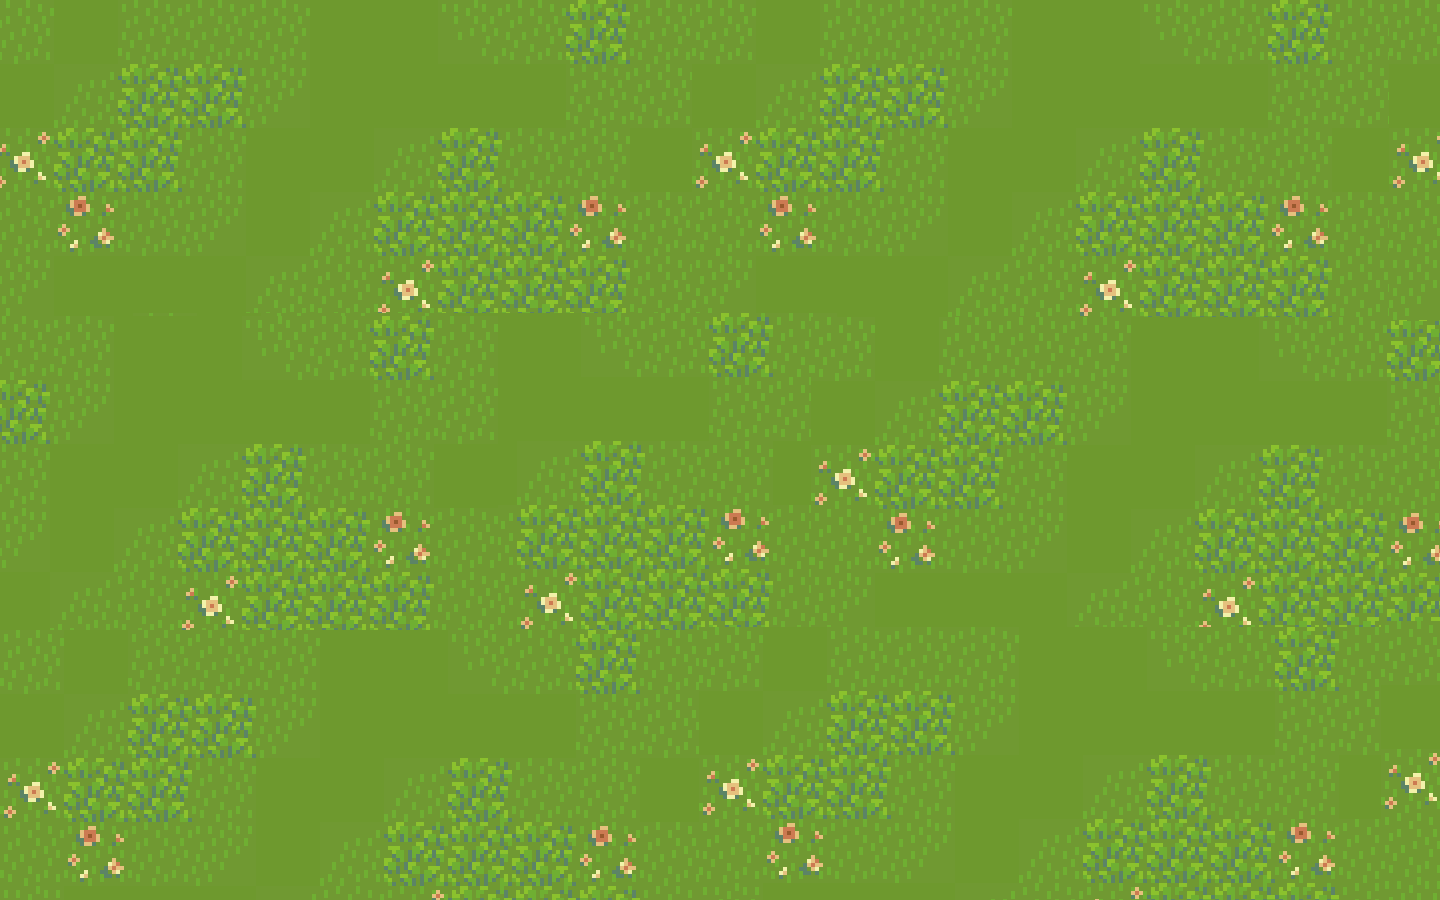
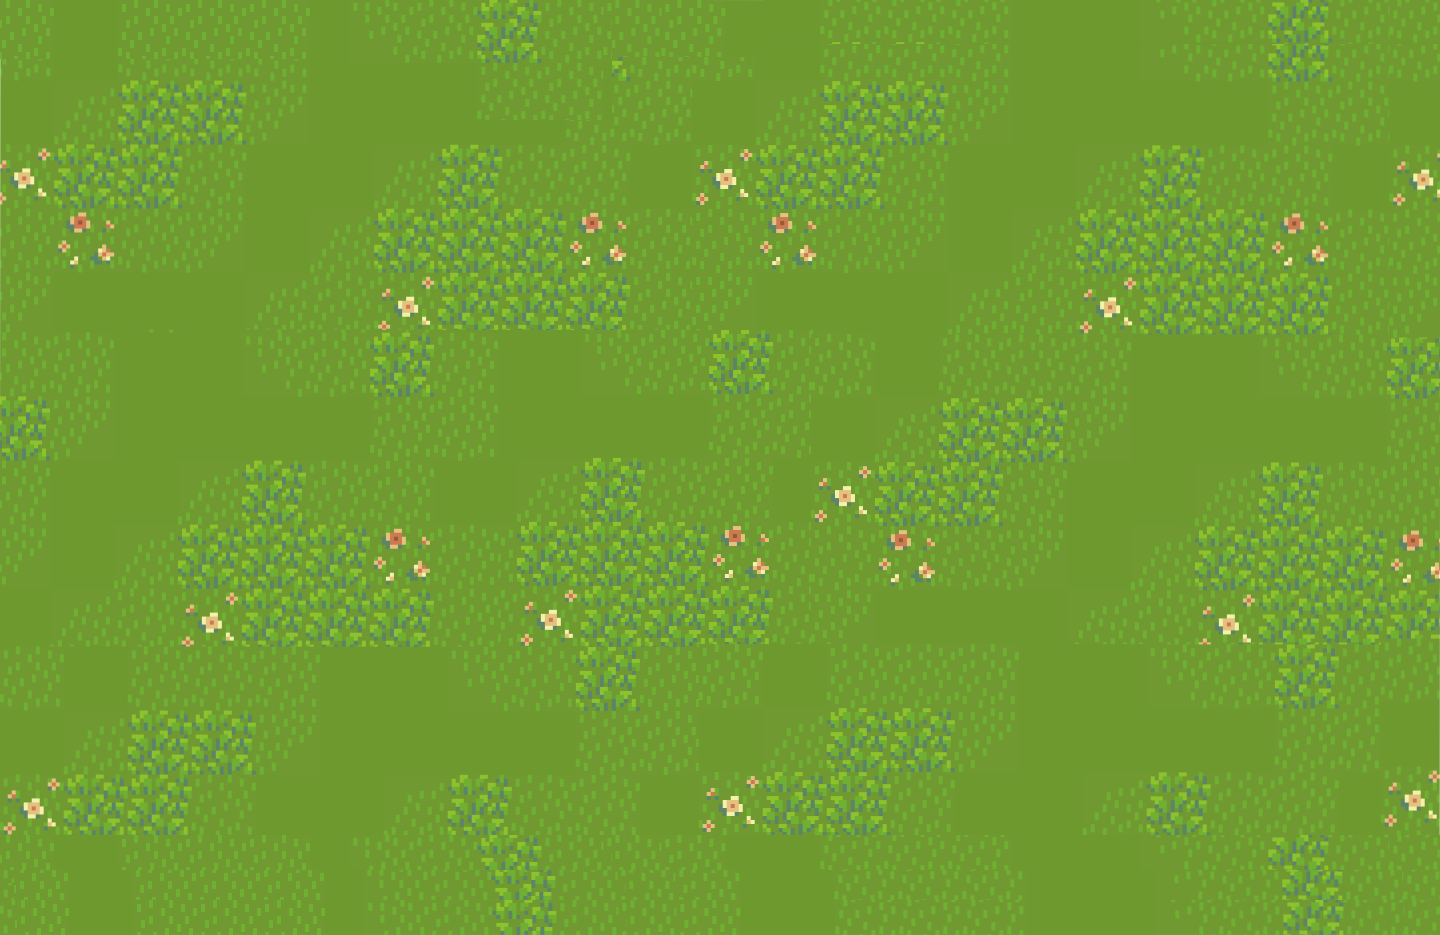
started road runner minigame, fixed tick issues

diff --git a/game/classes/states/roadRunnerState.py b/game/classes/states/roadRunnerState.py
@@ -3,28 +3,82 @@ from classes.spriteLoader import SpriteLoader
 from classes.states.pauseState import Pause
 from classes.buttonClass import Button
 import pygame
+import math
 import os
 
 class RoadRunner(State):
     def __init__(self, main) -> None:
         State.__init__(self, main)
-        self.exitButton = Button(538, 700, self.main.exitImage, 2.5, self.main.exitHoverImage)
+        self.exitButton = Button(538, 660, self.main.exitImage, 2.5, self.main.exitHoverImage)
+
+        self.startTicks = pygame.time.get_ticks()
+        self.currentTickDifference = 0
+
+        self.scrollSpeed = 5
+        self.groundScroll = 0
+        self.timer = 5
+        self.alive = True
+        self.result = False
+        self.goldAdded = False
+        self.moving = True
+
+        self.runner = Runner(720, 700)
 
     def update(self, dt, inputs) -> None:
         pygame.display.update()
 
-    def render(self, screen, inputs) -> None:
-        screen.fill((0,0,0))
-        screen.blit(self.backgroundImage, (0,0))
+        if self.alive:
+            if self.moving:
+                self.runner.update(dt, inputs, self.main.FPS)
 
+                #timer
+                if self.main.game.getPause() == True:
+                    self.startTicks = pygame.time.get_ticks() - self.currentTickDifference
+                    self.main.game.changePause()
+                    
+                seconds = (pygame.time.get_ticks() - self.startTicks)/1000
+                if math.floor(seconds) >= 1:
+                    self.startTicks = pygame.time.get_ticks()
+                    if self.timer > 0:
+                        self.timer -= 1
+                    else:
+                        self.alive = False
+                        self.result = True
+
+                #generates obstacles
+                
+
+
+                #scrolls the ground
+                self.groundScroll -= self.scrollSpeed * self.main.FPS * dt
+                if abs(self.groundScroll) > 35:
+                    self.groundScroll = 0     
+
+        else:
+            if self.result:
+                if self.goldAdded == False:
+                    self.main.minigameValue = self.main.game.changeGold(self.main.minigameValue, False)
+                    self.goldAdded = True
+
+            
+
+    def render(self, screen, inputs) -> None:
         if inputs['escape'] == True:
             nextState = Pause(self.main)
+            self.currentTickDifference = pygame.time.get_ticks() - self.startTicks
             nextState.newState()
 
-        if self.exitButton.draw(screen, inputs) == 1:
-            self.leaveState()
+        if self.alive:
+            screen.fill((0,0,0))
+            screen.blit(self.backgroundImage, (0,self.groundScroll))
 
-         
+            self.runner.render(screen)
+
+            self.main.drawText(str(self.timer), 10, 10, screen, 60)
+                    
+        else:
+            if self.exitButton.draw(screen, inputs) == 1:
+                self.leaveState()
 
     #loads assets required for minigame
     def loadImages(self) -> None:
@@ -32,9 +86,55 @@ class RoadRunner(State):
         self.backgroundImage = pygame.image.load(os.getcwd() + '/assets/road runner minigame/road runner background.png')
         self.obstacleImage = pygame.image.load(os.getcwd() + '/assets/road runner minigame/obstacle.png')
 
-        #loads character sprite sheets
-        self.roadRunnerSpriteSheet = pygame.image.load(os.getcwd() + '/assets/characters/road runner.png')
+class Runner():
+    def __init__(self, x, y):
+        self.loadSprites()
+        self.currentFrameNum = 1
 
-        #loads character sprites
-        roadRunnerSpritesObject = SpriteLoader((os.getcwd() + '/assets/characters/road runner meta.json'), self.roadRunnerSpriteSheet)
+        self.x, self.y = x, y
+
+        self.lastUpdate = 0
+
+        self.currentFrame = self.roadRunnerFrames[0]
+
+
+
+    def update(self, dt, inputs, fps):
+        self.animate(dt)
+        self.rect = self.currentFrame.get_rect()
+        self.rect.center = (self.x, self.y)
+
+    def render(self, screen):
+        screen.blit(self.currentFrame, (self.rect.x, self.rect.y))
+
+    def animate(self, dt):
+        self.lastUpdate += dt
+
+        if self.lastUpdate > 0.05:
+            self.lastUpdate = 0
+            self.currentFrameNum += 1
+            self.currentFrame = self.roadRunnerFrames[(self.currentFrameNum % 3)]
+
+
+
+
+    def loadSprites(self):
+        roadRunnerSpriteSheet = pygame.image.load(os.getcwd() + '/assets/characters/road runner.png')
+        roadRunnerSpritesObject = SpriteLoader((os.getcwd() + '/assets/characters/road runner meta.json'), roadRunnerSpriteSheet)
         self.roadRunnerSprites = roadRunnerSpritesObject.getSprites()
+
+        self.roadRunnerFrames = []
+        for i in self.roadRunnerSprites:
+            self.roadRunnerFrames.append(self.roadRunnerSprites[i])
+
+class Obstacle(pygame.sprite.Sprite):
+    def __init__(self, x, y, image):
+        pygame.sprite.Sprite.__init__(self)
+        self.image = image
+        self.rect = self.image.get_rect()
+        self.rect.topleft = (x,y)
+    
+    def update(self, dt, fps, scrollSpeed):
+        self.rect.y += scrollSpeed * dt * fps
+        if self.rect.y > 900:
+            self.kill()

diff --git a/game/classes/states/tweetyPieState.py b/game/classes/states/tweetyPieState.py
@@ -13,13 +13,16 @@ class TweetyPie(State):
 
         #set game variables
         self.passPipe = False
-        self.scrollSpeed = 4
+        self.scrollSpeed = 7
         self.alive = True
         self.groundScroll = 0
-        self.pipeFreq = 3000
+        self.pipeFreq = 2000
         self.lastPipe = pygame.time.get_ticks() - self.pipeFreq
         self.score = 0
         self.counter = 0
+        self.result = False
+        self.goldAdded = False
+        self.currentTickDifference = 0
 
         self.tweety = Tweety(200, ((self.main.HEIGHT / 2) - 100 ))
         self.pipeGroup = pygame.sprite.Group()
@@ -29,16 +32,17 @@ class TweetyPie(State):
 
         if self.score >= 5:
             self.alive = False
+            self.result = True
 
         if self.tweety.update(dt, inputs, self.main.FPS) == 1:
             self.alive = False
 
-        if self.alive:
+        if self.alive and self.main.game.getPause() == False:
             if self.tweety.getFlying():
-                #generates pipes
                 timeNow = pygame.time.get_ticks()
                 self.pipeGroup.update(dt, self.main.FPS, self.scrollSpeed)
 
+                #checks for passing the pipes
                 if len(self.pipeGroup) > 0:
                     if self.tweety.rect.left > self.pipeGroup.sprites()[0].rect.left\
                         and self.tweety.rect.right < self.pipeGroup.sprites()[0].rect.right\
@@ -50,9 +54,11 @@ class TweetyPie(State):
                             self.score += 1
                             self.passPipe = False
 
+                #checks for collisions
                 if pygame.sprite.spritecollideany(self.tweety, self.pipeGroup):
                     self.alive = False
 
+                #generates pipes
                 if timeNow - self.lastPipe > self.pipeFreq and self.counter < 5:
                     height = random.randint(-100,100)
 
@@ -68,16 +74,31 @@ class TweetyPie(State):
                 if abs(self.groundScroll) > 35:
                     self.groundScroll = 0
 
+        #handles ticks when game ispaused
+        elif self.main.game.getPause():
+                self.lastPipe = pygame.time.get_ticks() - self.currentTickDifference
+                self.main.game.changePause()
+
+        else:
+            if self.result:
+                if self.goldAdded == False:
+                    self.main.minigameValue = self.main.game.changeGold(self.main.minigameValue, False)
+                    self.goldAdded = True
+
+
     def render(self, screen, inputs) -> None:
         screen.fill((0,0,0))
         screen.blit(self.backgroundImage, (0,0))
+
         self.tweety.render(screen)
         self.pipeGroup.draw(screen)
+        
         screen.blit(self.groundImage, (self.groundScroll,800))
-        self.drawText(str(self.score), 10, 10, screen)
+        self.main.drawText(str(self.score), 10, 10, screen, 60)
 
         if inputs['escape'] == True:
             nextState = Pause(self.main)
+            self.currentTickDifference = pygame.time.get_ticks() - self.lastPipe
             nextState.newState()
 
         #draws button if game is over
@@ -89,10 +110,6 @@ class TweetyPie(State):
         self.backgroundImage = pygame.image.load(os.getcwd() + '/assets/tweety pie minigame/tweety pie background.png')
         self.groundImage = pygame.image.load(os.getcwd() + '/assets/tweety pie minigame/ground.png')
         self.pipeImage = pygame.image.load(os.getcwd() + '/assets/tweety pie minigame/pipe.png')
-
-    def drawText(self, text, x, y, screen):
-        image = pygame.font.Font(os.getcwd() + '/assets/misc/font.ttf', 60).render(text, True, (255, 215, 0))
-        screen.blit(image, (x,y))
 
 class Tweety():
     def __init__(self, x, y):
@@ -139,8 +156,8 @@ class Tweety():
             self.currentFrame = self.tweetyFrames[(self.currentFrameNum % 2)]
 
     def loadSprites(self):
-        self.tweetyPieSpriteSheet = pygame.image.load(os.getcwd() + '/assets/characters/tweety pie.png')
-        tweetyPieSpritesObject = SpriteLoader((os.getcwd() + '/assets/characters/tweety pie meta.json'), self.tweetyPieSpriteSheet)
+        tweetyPieSpriteSheet = pygame.image.load(os.getcwd() + '/assets/characters/tweety pie.png')
+        tweetyPieSpritesObject = SpriteLoader((os.getcwd() + '/assets/characters/tweety pie meta.json'), tweetyPieSpriteSheet)
         self.tweetySprites = tweetyPieSpritesObject.getSprites()
 
         self.tweetyFrames = []

diff --git a/game/classes/states/minigameSelectState.py b/game/classes/states/minigameSelectState.py
@@ -13,8 +13,8 @@ class MinigameSelect(State):
         self.status = 1 if minigame is loaded
         """
         State.__init__(self, main)
-        self.tweetyMinigameButton = Button(400, 400, self.tweetyMinigameIconImage, 10)
-        self.roadRunnerMinigameButton = Button(800,400, self.roadRunnerMinigameIconImage, 2.5)
+        self.tweetyMinigameButton = Button(400, 300, self.tweetyMinigameIconImage, 10)
+        self.roadRunnerMinigameButton = Button(800,300, self.roadRunnerMinigameIconImage, 2.5)
         self.status = 0
 
     def update(self, dt, inputs):
@@ -26,6 +26,9 @@ class MinigameSelect(State):
         if inputs['escape'] == True:
             nextState = Pause(self.main)
             nextState.newState()
+
+        screen.blit(self.backgroundImage, (355, 254))
+        self.main.drawText('Reward: ' + str(self.main.minigameValue) + 'G', 614, 650, screen, 30)
             
         if self.tweetyMinigameButton.draw(screen, inputs) == 1:
             self.status = 1
@@ -43,3 +46,4 @@ class MinigameSelect(State):
     def loadImages(self):
         self.tweetyMinigameIconImage = pygame.image.load(os.getcwd() + '/assets/misc/tweety game icon.png')
         self.roadRunnerMinigameIconImage = pygame.image.load(os.getcwd() + '/assets/misc/road runner game icon.png')
+        self.backgroundImage = pygame.image.load(os.getcwd() + '/assets/misc/minigame background.png')

diff --git a/game/main.py b/game/main.py
@@ -2,11 +2,13 @@ import pygame
 import time
 import os
 from classes.states import mainMenuState
+from classes.gameClass import Game
 
 class Main():
     #initialise Main class
     def __init__(self) -> None:
         pygame.init()
+        self.game = Game()
         #set game window
         self.WIDTH = 1440
         self.HEIGHT = 900
@@ -29,6 +31,7 @@ class Main():
         self.previousTime = 0
         self.FPS = 30
         self.stateStack = []
+        self.minigameValue = int(self.game.getGold() * 0.1)
 
     #initialises states
     def loadStates(self) -> None:
@@ -88,6 +91,10 @@ class Main():
         timeNow = time.time()
         self.dt = timeNow - self.previousTime
         self.previousTime = timeNow
+
+    def drawText(self, text, x, y, screen, size) -> None:
+        image = pygame.font.Font(os.getcwd() + '/assets/misc/font.ttf', size).render(text, True, (255, 215, 0))
+        screen.blit(image, (x,y))
 
 if __name__ == "__main__":
     game = Main()

diff --git a/game/classes/gameClass.py b/game/classes/gameClass.py
@@ -11,7 +11,9 @@ class Game:
         self.currentTower = None
         self.ownedHeroes = []
         self.currentHeroes = {}
-        self.state = None
+        self.gold = 100
+        self.paused = False
+        self.pauseTick = 0
 
     #adds an enemy object to the enemies list
     def spawnEnemy(self, enemy: object) -> None:
@@ -68,5 +70,23 @@ class Game:
         else:
             print("Tower not owned")
 
+    def changeGold(self, value: int, remove: bool) -> int:
+        if remove: 
+            self.gold -= value
+        else:
+            self.gold += value
 
+        return int(self.gold * 0.10)
+
+    def getGold(self) -> int:
+        return self.gold
+
+    def changePause(self) -> None:
+        if self.paused:
+            self.paused = False
+        else:
+            self.paused = True
+
+    def getPause(self) -> None:
+        return self.paused
 

diff --git a/game/classes/states/pauseState.py b/game/classes/states/pauseState.py
@@ -1,6 +1,7 @@
 from classes.states.stateClass import State
 from classes.buttonClass import Button
 import pygame
+import time
 import os
 
 class Pause(State):
@@ -8,12 +9,14 @@ class Pause(State):
         State.__init__(self, main)
         self.exitButton = Button(539, 450, self.main.exitImage, 2.5, self.main.exitHoverImage)
         self.pauseButton = Button(539, 300, self.pauseImage, 2.5, self.pauseHoverImage)
+        self.main.game.changePause()
+        self.startTicks = pygame.time.get_ticks()
 
     def update(self, dt, inputs) -> None:
         pygame.display.update()
 
     def render(self, screen, inputs) -> None:
-        if self.pauseButton.draw(screen, inputs) == 1 :
+        if self.pauseButton.draw(screen, inputs) == 1:
             self.leaveState()
 
         if self.exitButton.draw(screen, inputs) == 1:

diff --git a/game/classes/states/mainGameState.py b/game/classes/states/mainGameState.py
@@ -20,6 +20,8 @@ class MainGame(State):
         screen.fill((0,0,0))
         screen.blit(self.backgroundImage, (0,0))
         
+        self.main.drawText('GOLD: ' + str(self.main.game.getGold()), 10, 10, screen, 30)
+
         if inputs['escape'] == True:
             nextState = Pause(self.main)
             nextState.newState()
